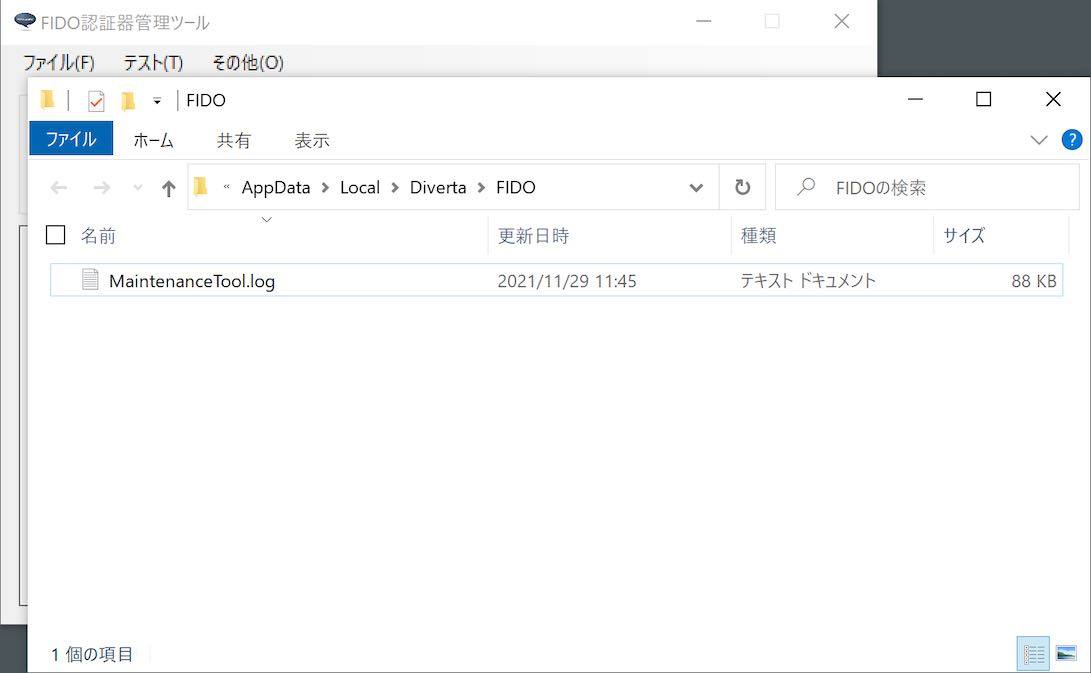
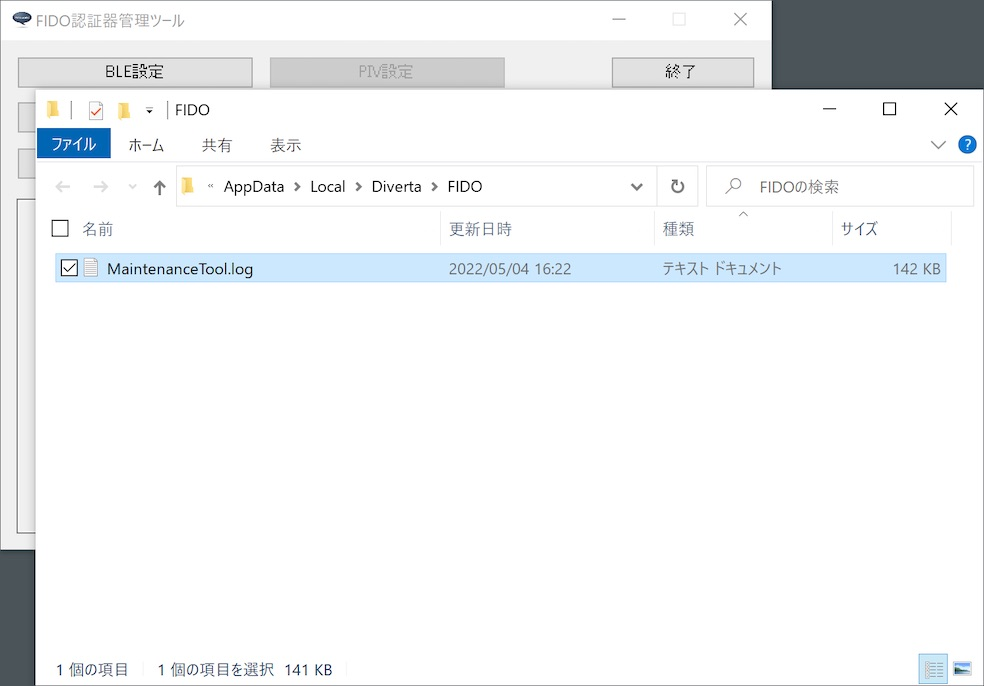
ドキュメントを更新
・ログ参照手順書の画面コピーを差し替え

diff --git a/MaintenanceTool/WindowsExe/VIEWLOG.md b/MaintenanceTool/WindowsExe/VIEWLOG.md
@@ -14,13 +14,13 @@ FIDO認証器管理ツールの実行中に出力されるログは、Windowsの
 ### ログファイルの場所を開く
 
 ログファイルの格納場所を、Windowsのエクスプローラで開くことができます。<br>
-下図のメニュー「管理ツールのログを参照」を選択します。
+管理ツールの「ユーティリティー」画面で「管理ツールのログを参照」ボタンをクリックします。
 
 <img src="assets02/0002.jpg" width="400">
 
 ログファイル「MaintenanceTool.log」を格納するディレクトリーが、Windowsのエクスプローラで表示されます。
 
-<img src="assets02/0003.jpg" width="500">
+<img src="assets02/0003.jpg" width="510">
 
 ログファイルは通常のテキストファイルですので、適宜、テキストエディターにより内容を参照することが可能です。
 
